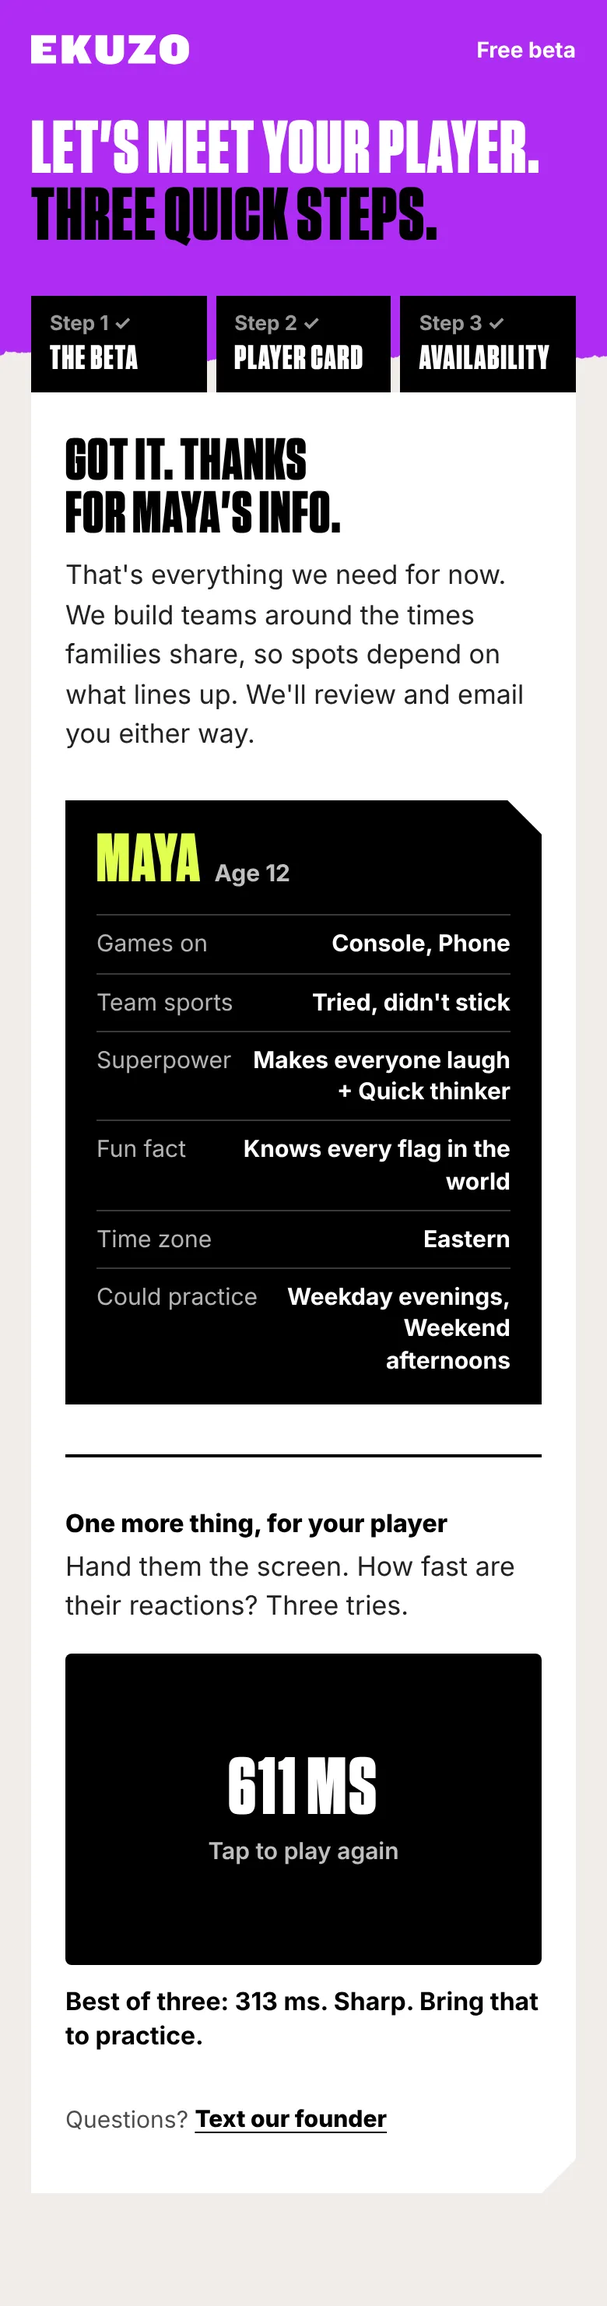
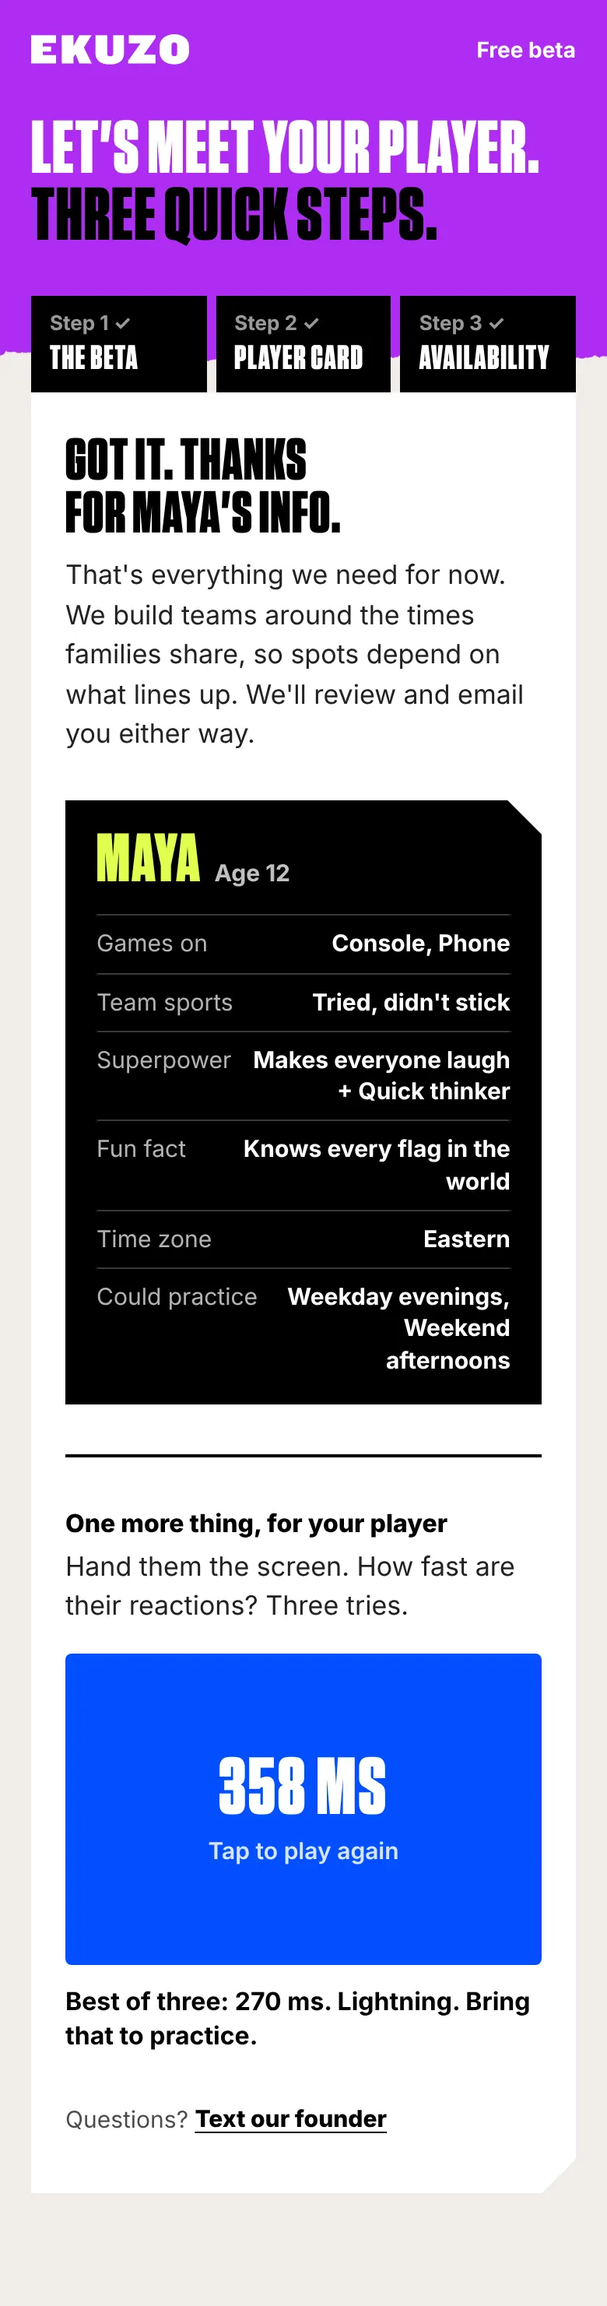
Season 01 BETA: wizard at /season1/beta/start, save call, handoff doc
The wizard posts step beta-wizard to /api/season-one on ekuzo.gg only.
The route does not handle that step yet (Jamie's lane): see
docs/beta-wizard-handoff.md. Beta lab gains the after-wizard email.

Claude-Session: https://claude.ai/code/session_01543UG8e9JwTD5Qg5aKwmc9

Changed region(s): [[0.0923, 0.7144, 0.8923, 0.9007]]

diff --git a/app/season1/beta/start/start.html b/app/season1/beta/start/start.html
@@ -4,16 +4,20 @@
 <meta charset="utf-8">
 <meta name="viewport" content="width=device-width, initial-scale=1, viewport-fit=cover">
 <meta name="robots" content="noindex">
+<meta name="s1-build" content="{{BUILD}}">
 <title>Beta sign-up | EKUZO</title>
 <link rel="icon" href="/icon.png">
+{{TAGS}}
 <link rel="preload" as="font" type="font/otf" href="/fonts/TungstenNarrow-Black.otf" crossorigin>
 <link rel="preconnect" href="https://fonts.googleapis.com">
 <link rel="preconnect" href="https://fonts.gstatic.com" crossorigin>
 <link rel="stylesheet" href="https://fonts.googleapis.com/css2?family=Inter:wght@400;500;600;700;800&family=Oswald:wght@700&display=swap">
 <style>
-/* BETA sign-up wizard, prototype (roadshow). Three steps after a parent joins with their email:
-   what the beta is, the player, availability. Season 01 look, matching /season1/beta.
-   Nothing is saved yet: the last step only shows the "we'll follow up" state. */
+/* BETA sign-up wizard, served at /season1/beta/start. The parent's email first, then three
+   steps: what the beta is (with the expectations), the player card, availability.
+   Season 01 look, matching /season1/beta. On ekuzo.gg the last step POSTs the answers to
+   /api/season-one with step "beta-wizard" (see docs/beta-wizard-handoff.md). Anywhere else
+   (dev, localhost previews) nothing is sent and the end state just shows. */
 @font-face{font-family:"Tungsten Narrow";src:url("/fonts/TungstenNarrow-Black.otf") format("opentype");font-weight:900;font-display:swap}
 :root{--blue:#034FFF;--black:#000;--ink:#222;--off:#F0EDEA;--white:#fff;--violet:#AE2CF2;--lime:#E0FF4F;--bad:#c8141c;
  --display:"Tungsten Narrow","Oswald",Impact,"Arial Narrow",sans-serif;--body:"Inter",Arial,Helvetica,sans-serif;--ease:cubic-bezier(.16,1,.3,1)}
@@ -95,6 +99,8 @@ main{position:relative;z-index:2;max-width:680px;margin:-56px auto 0;padding:0 2
 .q.bad .vows label:not(:has(input:checked)) .box{border-color:var(--bad)}
 .err{display:none;font:600 14px/1.35 var(--body);color:var(--bad);margin-top:8px}
 .q.bad .err{display:block}
+#senderr{display:block;margin-top:20px}
+.btn[disabled]{opacity:.6;cursor:default}
 .q.bad input[type=text],.q.bad select,.q.bad input[type=email]{border-color:var(--bad)}
 .q.bad .opts label{border-color:var(--bad)}
 
@@ -115,9 +121,9 @@ main{position:relative;z-index:2;max-width:680px;margin:-56px auto 0;padding:0 2
 .pc dt{color:rgba(255,255,255,.7);flex:none}
 .pc dd{margin:0;font-weight:700;text-align:right;overflow-wrap:anywhere}
 .rx{margin-top:32px;padding-top:6px;border-top:2px solid var(--black)}
-.pad{display:flex;flex-direction:column;align-items:center;justify-content:center;gap:6px;width:100%;min-height:200px;margin-top:16px;border:0;border-radius:4px;background:var(--black);color:#fff;cursor:pointer;font-family:var(--body);padding:20px;touch-action:manipulation;-webkit-tap-highlight-color:transparent;user-select:none}
+.pad{display:flex;flex-direction:column;align-items:center;justify-content:center;gap:6px;width:100%;min-height:200px;margin-top:16px;border:0;border-radius:4px;background:var(--blue);color:#fff;cursor:pointer;font-family:var(--body);padding:20px;touch-action:manipulation;-webkit-tap-highlight-color:transparent;user-select:none}
 .pad b{font:900 52px/.9 var(--display);letter-spacing:.03em;text-transform:uppercase}
-.pad span{font-size:15px;font-weight:600;color:rgba(255,255,255,.75)}
+.pad span{font-size:15px;font-weight:600;color:rgba(255,255,255,.85)}
 .pad[data-s=wait]{background:var(--violet)}
 .pad[data-s=go]{background:var(--lime);color:var(--black)}
 .pad[data-s=go] span{color:rgba(0,0,0,.7)}
@@ -225,7 +231,8 @@ main{position:relative;z-index:2;max-width:680px;margin:-56px auto 0;padding:0 2
 <label><span><input type="checkbox" name="times" value="Weekend evenings">Weekend evenings<small>Saturday or Sunday</small></span></label>
 </div><p class="err">Pick at least one time.</p></fieldset>
 <div class="q"><label for="note">Anything we should know? <i>(optional)</i></label><textarea id="note" name="note" rows="2"></textarea></div>
-<div class="acts"><button class="btn back" type="button" data-back>Back</button><button class="btn" type="submit">Send it</button></div>
+<p class="err" id="senderr" role="alert" hidden></p>
+<div class="acts"><button class="btn back" type="button" data-back>Back</button><button class="btn" type="submit" id="send">Send it</button></div>
 </section>
 
 <section data-step="3" hidden>
@@ -246,8 +253,7 @@ main{position:relative;z-index:2;max-width:680px;margin:-56px auto 0;padding:0 2
 <script>
 (function(){
   var f=document.getElementById("wiz"), steps=[].slice.call(f.querySelectorAll("[data-step]")), dots=[].slice.call(document.querySelectorAll("#dots li")), cur=0;
-  var qs=new URLSearchParams(location.search), em=(qs.get("email")||"").trim();
-  if(em) f.email.value=em;
+  var qs=new URLSearchParams(location.search); // utm_* only. The email is typed, never passed in the address.
   // Guess the time zone; the parent can change it.
   try{ var z=Intl.DateTimeFormat().resolvedOptions().timeZone||"", m={"America/New_York":"Eastern","America/Detroit":"Eastern","America/Chicago":"Central","America/Denver":"Mountain","America/Phoenix":"Mountain","America/Los_Angeles":"Pacific","America/Anchorage":"Alaska","Pacific/Honolulu":"Hawaii"};
     f.tz.value=m[z]||(/^America\/(Indiana|Kentucky)/.test(z)?"Eastern":(/^America\//.test(z)?f.tz.value:"Other")); }catch(_){}
@@ -298,10 +304,35 @@ main{position:relative;z-index:2;max-width:680px;margin:-56px auto 0;padding:0 2
   f.addEventListener("input",function(){ card(pc,false); });
   // superpower: two at most
   document.getElementById("powers").addEventListener("change",function(e){ if(vals("power").length>2) e.target.checked=false; card(pc,false); });
-  f.addEventListener("submit",function(e){
+  // Saving. Only ekuzo.gg talks to the API, the same rule the BETA page uses, so previews never write.
+  var LIVE=/(^|\.)ekuzo\.gg$/.test(location.hostname), sending=false, sendId="";
+  var utm=function(){var o={};["utm_source","utm_medium","utm_campaign","utm_content","utm_term"].forEach(function(k){o[k]=qs.get(k)||""});return o};
+  function answers(){
+    var z=""; try{z=Intl.DateTimeFormat().resolvedOptions().timeZone||""}catch(_){}
+    return {step:"beta-wizard",email:f.email.value.trim(),eventId:sendId,
+      playerName:f.pname.value.trim(),playerAge:parseInt(f.age.value,10),
+      playsOn:vals("plays"),teamSports:f.sports.value||"",superpowers:vals("power"),funFact:f.fact.value.trim(),
+      expectations:vals("vow"),timeZone:f.tz.value,tz:z,times:vals("times"),note:f.note.value.trim(),
+      attribution:utm(),page:location.pathname,ekz_hp:""};
+  }
+  f.addEventListener("submit",async function(e){
     e.preventDefault();
     if(cur<3){ if(check(cur)) show(cur+1); return; }
-    if(cur!==3||!check(3)) return;
+    if(cur!==3||!check(3)||sending) return;
+    var btn=document.getElementById("send"), err=document.getElementById("senderr");
+    err.hidden=true;
+    if(LIVE){
+      sending=true; btn.disabled=true; btn.textContent="Sending…";
+      if(!sendId) sendId=(window.crypto&&crypto.randomUUID)?crypto.randomUUID():Date.now()+"-"+Math.random().toString(36).slice(2,12);
+      var ok=false, msg="";
+      try{
+        var r=await fetch("/api/season-one",{method:"POST",headers:{"Content-Type":"application/json"},body:JSON.stringify(answers()),signal:window.AbortSignal&&AbortSignal.timeout?AbortSignal.timeout(15000):undefined});
+        ok=r.ok; if(!ok){ try{ var j=await r.json(); msg=(j&&typeof j.error==="string")?j.error:""; }catch(_){} }
+      }catch(_){}
+      sending=false; btn.disabled=false; btn.textContent="Send it";
+      if(!ok){ err.textContent=msg||"That didn’t go through. Check your connection and try again."; err.hidden=false; return; }
+      try{ window.gtag&&gtag("event","beta_wizard_complete"); window.clarity&&clarity("event","beta_wizard_complete"); }catch(_){}
+    }
     document.getElementById("doneh").textContent="Got it. Thanks for "+f.pname.value.trim()+"'s info.";
     card(document.getElementById("pc2"),true);
     show(4);

diff --git a/public/roadshow/beta-lab.html b/public/roadshow/beta-lab.html
@@ -130,7 +130,7 @@ footer{color:var(--muted);font-size:14px;border-top:1px solid var(--line);paddin
       <li><b>Beta ad</b><span>Four new ads on Meta. Each lands on the BETA page, where a parent joins with one email field.</span><a href="/season1/beta">Open the page</a></li>
       <li><b>Karlin's email</b><span>A personal note to the 400+ Season 01 sign-ups. To join, they just reply.</span><a href="#emails">See the email</a></li>
       <li><b>Wizard invite</b><span>Everyone whose email we now have gets a short email with the wizard link.</span></li>
-      <li><b>Sign-up wizard</b><span>Starts with the parent's email, then three steps: what the beta is, a player card, and availability. It ends with a reaction test for the kid.</span><a href="beta/wizard.html">Open the wizard</a></li>
+      <li><b>Sign-up wizard</b><span>Starts with the parent's email, then three steps: what the beta is, a player card, and availability. It ends with a reaction test for the kid.</span><a href="/season1/beta/start">Open the wizard</a></li>
       <li><b>Review and confirm</b><span>We check that each player's availability and our volume line up, then follow up with practice. How we confirm gets decided Nov 12.</span></li>
       <li><b>The beta</b><span>Two weeks, four sessions. Then the Season 01 offer.</span></li>
     </ol>
@@ -158,12 +158,12 @@ footer{color:var(--muted);font-size:14px;border-top:1px solid var(--line);paddin
       <figure><img src="beta/screens/wizard-3-availability.webp" alt="Wizard step 3: time zone, school schedule and the times that could work." width="390" height="1323" loading="lazy"><figcaption><b>3. Availability</b>Time zone (filled in from their device), then weekday or weekend, afternoons or evenings.</figcaption></figure>
       <figure><img src="beta/screens/wizard-4-done.webp" alt="Wizard end: Got it. We'll review your times and follow up with practice details." width="390" height="889" loading="lazy"><figcaption><b>After the last step</b>"We'll review and email you either way", so nobody reads it as a guaranteed spot. Then a reaction test for the player.</figcaption></figure>
     </div>
-    <a class="more" href="beta/wizard.html">Try the wizard</a>
+    <a class="more" href="/season1/beta/start">Try the wizard at /season1/beta/start</a>
   </section>
 
   <section>
     <h2 id="emails">The emails</h2>
-    <p class="sub">Short, plain emails from Karlin. The first asks for a reply. The second invites everyone we have an email for into the wizard.</p>
+    <p class="sub">Short, plain emails from Karlin. The first asks for a reply. The second invites everyone we have an email for into the wizard. The third confirms we got the player's info, without promising a spot.</p>
     <div class="mail">
       <article class="inbox">
         <header>
@@ -198,7 +198,7 @@ footer{color:var(--muted);font-size:14px;border-top:1px solid var(--line);paddin
         <div class="body" id="emailbody2">
           <p>Hi,</p>
           <p>Thanks for your interest in the beta. Three quick steps tell us about your player and the times that work:</p>
-          <p><span class="ph">[wizard link]</span></p>
+          <p>ekuzo.gg/season1/beta/start</p>
           <p>Questions? Just reply.</p>
           <p>Karlin<br>Founder, EKUZO</p>
         </div>
@@ -208,6 +208,31 @@ footer{color:var(--muted);font-size:14px;border-top:1px solid var(--line);paddin
         <button class="btn ghost" type="button" id="copySubject2">Copy subject line</button>
         <div class="note">
           <p><b>Two senders</b>Page sign-ups can get this from Klaviyo right after they join. Parents who replied to Karlin get it from him by hand.</p>
+        </div>
+      </aside>
+    </div>
+    <p class="mailhead">After the wizard</p>
+    <div class="mail">
+      <article class="inbox">
+        <header>
+          <p class="subject" id="subject3">We got <span class="ph">[player name]</span>'s info</p>
+          <div class="from"><span class="av" aria-hidden="true">K</span><span><b>Karlin</b> from EKUZO</span></div>
+        </header>
+        <div class="body" id="emailbody3">
+          <p>Hi,</p>
+          <p>Thanks for telling us about <span class="ph">[player name]</span>.</p>
+          <p>Next, we look at the times families shared and build teams around them. Spots depend on what lines up. You'll hear from me by <span class="ph">[date]</span> either way.</p>
+          <p>Nothing to install yet. Tech setup comes later.</p>
+          <p>Questions? Just reply.</p>
+          <p>Karlin<br>Founder, EKUZO</p>
+        </div>
+      </article>
+      <aside class="side">
+        <button class="btn" type="button" id="copyBody3">Copy email</button>
+        <button class="btn ghost" type="button" id="copySubject3">Copy subject line</button>
+        <div class="note">
+          <p><b>Sent from Klaviyo</b>Right after a parent finishes the wizard.</p>
+          <p><b>No promise of a spot</b>It says we will review and reply. The date is still to set.</p>
         </div>
       </aside>
     </div>
@@ -234,7 +259,8 @@ footer{color:var(--muted);font-size:14px;border-top:1px solid var(--line);paddin
       <li><b>How many players we can take</b><span class="who">Karlin</span><p>The drafts treat the beta as open to every family who signs up. If coach capacity sets a limit, the page needs a "full" state and a waitlist.</p></li>
       <li><b>The page headline</b><span class="who">Karlin</span><p>Working version: "Free beta. Game with a pro coach." It matches the ads. "Esports" is out of the headline because it may put parents off.</p></li>
       <li><b>Which questions we ask about the kid</b><span class="who">Team</span><p>For Nov 12. The draft asks where they game, how team sports have gone, their superpower and a fun fact. It no longer asks which games they play or about League. What do we need to filter players, and what can the coach learn at the intro?</p></li>
-      <li><b>Where the wizard saves</b><span class="who">Jamie</span><p>The wizard is a clickable draft and saves nothing yet. It needs a place for the answers, and the invite email in Klaviyo for page sign-ups.</p></li>
+      <li><b>Saving the wizard and the two emails</b><span class="who">Jamie</span><p>The wizard sends its answers on ekuzo.gg, but the sign-up route does not accept them yet. It also needs the wizard invite and the after-wizard email in Klaviyo. The full list is in <code>docs/beta-wizard-handoff.md</code>.</p></li>
+      <li><b>The reply-by date</b><span class="who">Team</span><p>The after-wizard email says "you'll hear from me by [date]". That date is not set.</p></li>
       <li><b>The paid Season 01 page while BETA runs</b><span class="who">Team</span><p>The drafts assume it stays live for families who are ready, and every ad and email points to BETA.</p></li>
       <li><b>The free jersey deadline</b><span class="who">Team</span><p>The jersey offer ends Nov 30, which may fall before the beta does. Decide if beta families still get it.</p></li>
       <li><b>The Season 01 offer after the beta</b><span class="who">Karlin</span><p>What families get for enrolling at the end, and the deadline.</p></li>
@@ -262,7 +288,7 @@ function bodyText(id){
     el.tagName === "UL" ? [...el.children].map(li => "- " + li.textContent.trim()).join("\n") : el.innerText.trim()
   ).join("\n\n");
 }
-[["copyBody","emailbody","subject","copySubject"],["copyBody2","emailbody2","subject2","copySubject2"]].forEach(([b,body,subj,s]) => {
+[["copyBody","emailbody","subject","copySubject"],["copyBody2","emailbody2","subject2","copySubject2"],["copyBody3","emailbody3","subject3","copySubject3"]].forEach(([b,body,subj,s]) => {
   document.getElementById(b).addEventListener("click", e => copy(e.currentTarget, bodyText(body), "Copy email"));
   document.getElementById(s).addEventListener("click", e => copy(e.currentTarget, document.getElementById(subj).textContent.trim(), "Copy subject line"));
 });

diff --git a/app/season1/beta/start/route.ts b/app/season1/beta/start/route.ts
@@ -1,0 +1,34 @@
+import { execSync } from "child_process";
+import fs from "fs";
+import path from "path";
+import { fillTags, renderStaticTags } from "@/lib/season1/tags";
+
+// BETA sign-up wizard, served at /season1/beta/start. Parents arrive from the wizard invite
+// email (after joining on /season1/beta or replying to Karlin). Same pattern as the other
+// Season 01 pages: a self-contained static HTML file next to this handler, with the head
+// tags from lib/season1/tags.ts. The page's own script posts the answers to /api/season-one
+// with step "beta-wizard" on ekuzo.gg only. See docs/beta-wizard-handoff.md.
+export const dynamic = "force-static";
+
+// Build marker (OR7): <meta name="s1-build"> carries the commit this page was built from, so a
+// harness run or a phone check can tell a stale deploy from this one. Netlify sets COMMIT_REF;
+// a local build asks git. Read once, at build time (force-static).
+function buildRef(): string {
+  if (process.env.COMMIT_REF) return process.env.COMMIT_REF.slice(0, 7);
+  try {
+    return execSync("git rev-parse --short HEAD", { stdio: ["ignore", "pipe", "ignore"] }).toString().trim() || "dev";
+  } catch {
+    return "dev";
+  }
+}
+
+export function GET() {
+  const html = fillTags(
+    fs.readFileSync(path.join(process.cwd(), "app", "season1", "beta", "start", "start.html"), "utf8"),
+    "",
+    renderStaticTags("landing"),
+  ).split("{{BUILD}}").join(buildRef());
+  return new Response(html, {
+    headers: { "content-type": "text/html; charset=utf-8" },
+  });
+}

diff --git a/docs/beta-wizard-handoff.md b/docs/beta-wizard-handoff.md
@@ -1,0 +1,99 @@
+# BETA sign-up: handoff to Jamie
+
+Written 2026-11-12 by Aaron's Claude. Goal: get the BETA flow live so a few people can try it and give feedback.
+
+## What is built (Aaron's lane, on `dev`)
+
+| Piece | Address | File |
+|---|---|---|
+| BETA page, one email field | `/season1/beta` | `app/season1/beta/beta.html` |
+| Sign-up wizard | `/season1/beta/start` | `app/season1/beta/start/start.html` |
+| Flow, screens, email copy | `/roadshow/beta-lab.html` | `public/roadshow/beta-lab.html` |
+
+Both pages are static HTML served by a route handler, the same pattern as `/season1`. Neither touches `app/api`.
+
+## The flow
+
+1. **Beta ad** to `/season1/beta`. The parent joins with an email.
+2. **Karlin's email** to the 400+ Season 01 sign-ups. To join, they reply.
+3. Everyone whose email we have gets the **wizard invite** email with a link to `/season1/beta/start`.
+4. **Wizard:** email, then what the beta is and three expectations, the player card, availability.
+5. **Wizard confirmation** email. It promises a review and a reply, not a spot.
+6. We review availability and volume, then follow up with practice. How we confirm a player is still being decided.
+
+## What already saves
+
+`/season1/beta` posts to `POST /api/season-one` exactly as the ad landing does (`source: "ad-landing"`), so those parents already land in Klaviyo as "Season 01 Waitlist" and join list `XGTv2F`. To tell a beta sign-up apart:
+
+- `page` starts with `/season1/beta`
+- `where` is `"beta"`, `adName` is `"BETA join page"`
+- Meta Lead `content_name` is `season_one_beta_<ad>`
+
+## What does not save yet (needs you)
+
+### 1. The wizard's answers
+
+On ekuzo.gg only, the wizard's last step sends this to `POST /api/season-one`. Off ekuzo.gg it sends nothing.
+
+```json
+{
+  "step": "beta-wizard",
+  "email": "parent@example.com",
+  "eventId": "uuid, stable across retries of the same submit",
+  "playerName": "Maya",
+  "playerAge": 12,
+  "playsOn": ["Console", "Phone"],
+  "teamSports": "Tried, didn't stick",
+  "superpowers": ["Makes everyone laugh", "Quick thinker"],
+  "funFact": "Knows every flag in the world",
+  "expectations": ["No toxicity", "Positive mindset", "Winning attitude"],
+  "timeZone": "Eastern",
+  "tz": "America/New_York",
+  "times": ["Weekday evenings", "Weekend afternoons"],
+  "note": "",
+  "attribution": { "utm_source": "", "utm_medium": "", "utm_campaign": "", "utm_content": "", "utm_term": "" },
+  "page": "/season1/beta/start",
+  "ekz_hp": ""
+}
+```
+
+Allowed values:
+
+- `playerAge`: 9 to 18
+- `playsOn` (any): Computer, Console, Tablet, Phone, Not much yet
+- `teamSports` (one, optional): Loves them / Plays, not their thing / Tried, didn't stick / Hasn't tried yet
+- `superpowers` (up to two): Never gives up, Makes everyone laugh, Quick thinker, Natural leader, Quiet strategist, Builds anything, Great teammate
+- `expectations`: always all three, the wizard will not continue without them
+- `timeZone`: Eastern, Central, Mountain, Pacific, Alaska, Hawaii, Other. `tz` is the device's IANA zone.
+- `times` (at least one): Weekday afternoons, Weekday evenings, Weekend afternoons, Weekend evenings
+- `playerName`, `funFact` (120 max), `note` are free text typed by a parent. Escape them in any template.
+
+**Today the route answers 400 to this**, because `beta-wizard` is not a known `step`. The wizard then shows the route's `error` text and the parent can retry. So the wizard should not be linked from a live email until the route handles the step.
+
+Things to decide in the route:
+
+- **It must work for a parent with no earlier sign-up.** The other follow-up steps call `stepAllowed()` and drop the write when there is no prior sign-up for that email. Parents who replied to Karlin never used the page, so for this step the wizard is the sign-up. Suggest: upsert the profile and subscribe to the list here.
+- **Event name.** Suggest a Klaviyo event `Beta Wizard Completed` with the fields above as event properties, and `beta_*` profile properties for the ones we filter on (age, times, time zone).
+- **Fulfillment view.** We need to sort players by availability and volume. A Sheets row per player (like `ekuzo-purchases`) would make that review easy. Your call on where it lives.
+- The wizard sends no Meta event. It fires `beta_wizard_complete` to GA4 and Clarity on success.
+
+### 2. Two Klaviyo emails
+
+Copy for both is in the Beta lab under "The emails". Per the platform split these are Klaviyo, not Beehiiv.
+
+- **Wizard invite.** Trigger: "Season 01 Waitlist" where `page` starts with `/season1/beta`. One link: `https://ekuzo.gg/season1/beta/start`. Parents who replied to Karlin get the same email from him by hand.
+- **Wizard confirmation.** Trigger: `Beta Wizard Completed`. Uses the player's name. It has a `[date]` placeholder for when we will reply, which the team still has to set.
+
+## Before it goes live
+
+- [ ] Route handles `step: "beta-wizard"` and writes to Klaviyo (and Sheets if used)
+- [ ] One real submit on a preview with the live key, checked in Klaviyo
+- [ ] Wizard invite flow live, link points to `/season1/beta/start`
+- [ ] Wizard confirmation flow live, `[date]` filled in
+- [ ] `dev` merged through `season1-commit` to `main`
+- [ ] Final headline on `/season1/beta` (Karlin is deciding; working version is "Free beta. Game with a pro coach.")
+
+## Not tested
+
+- The repo test suite (no `node_modules` in the session that built this).
+- A real write. The wizard's save call was tested against a mocked `/api/season-one` on a faked ekuzo.gg host: a 200 shows the end state, a 400 shows the error and keeps the parent on step 3.

diff --git a/WORKLOG.md b/WORKLOG.md
@@ -4,6 +4,17 @@
 
 **Format:** Most recent entry at the top. Include your name, date, and what changed.
 
+## Aaron's Claude, 2026-11-12: BETA wizard moved to /season1/beta/start, handoff for Jamie (dev)
+
+Goal (Aaron): get the BETA flow live so a few people can try it. **Jamie: read `docs/beta-wizard-handoff.md`.**
+
+- **Wizard has a real address:** `app/season1/beta/start/{route.ts,start.html}`, served at `/season1/beta/start` (same route-handler pattern as `/season1/beta`, noindex, head tags from `lib/season1/tags.ts`). `public/roadshow/beta/wizard.html` is gone; the lab links to the new address.
+- **Wizard now sends its answers** on ekuzo.gg only: `POST /api/season-one` with `step: "beta-wizard"` (payload in the handoff doc). **The route does not accept this step yet and answers 400**, so the wizard must not be linked from a live email until Jamie adds it. `app/api` was not touched. Off ekuzo.gg nothing is sent.
+- The email is typed on the first screen and is never read from the address (no `?email=`), so it cannot leak into GA4, the Pixel or Clarity through the URL.
+- Reaction test pad is blue at rest instead of black.
+- Beta lab: third email drafted ("After the wizard", Klaviyo, no promise of a spot, `[date]` to set), wizard invite shows the live link, open items updated.
+- **Checked:** wizard end to end at 390 and 1440 on a local preview; the save call against a mocked `/api/season-one` on a faked ekuzo.gg host (200 shows the end state, 400 shows the error and stays on step 3). **Not run:** the repo test suite, and no real write.
+
 ## Aaron's Claude, 2026-11-12: BETA wizard, expectations and a lighter player card (dev)
 
 - `public/roadshow/beta/wizard.html` (still a static draft, saves nothing):
